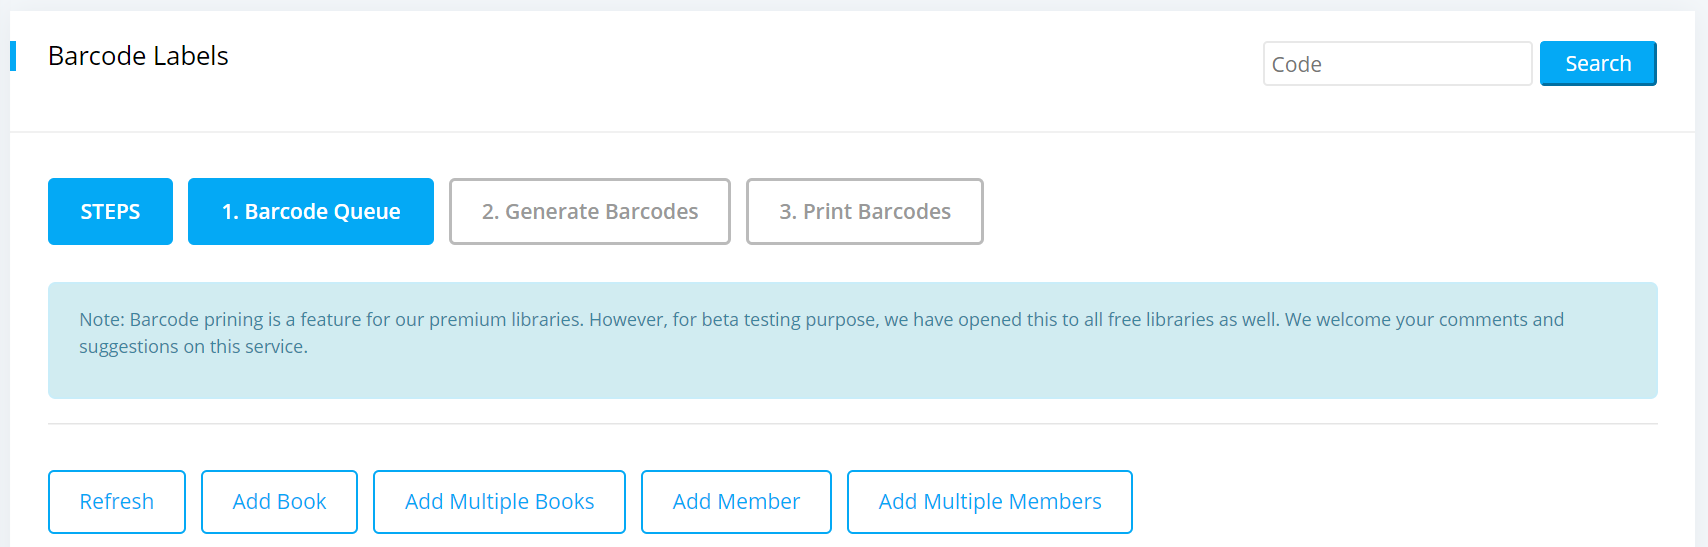
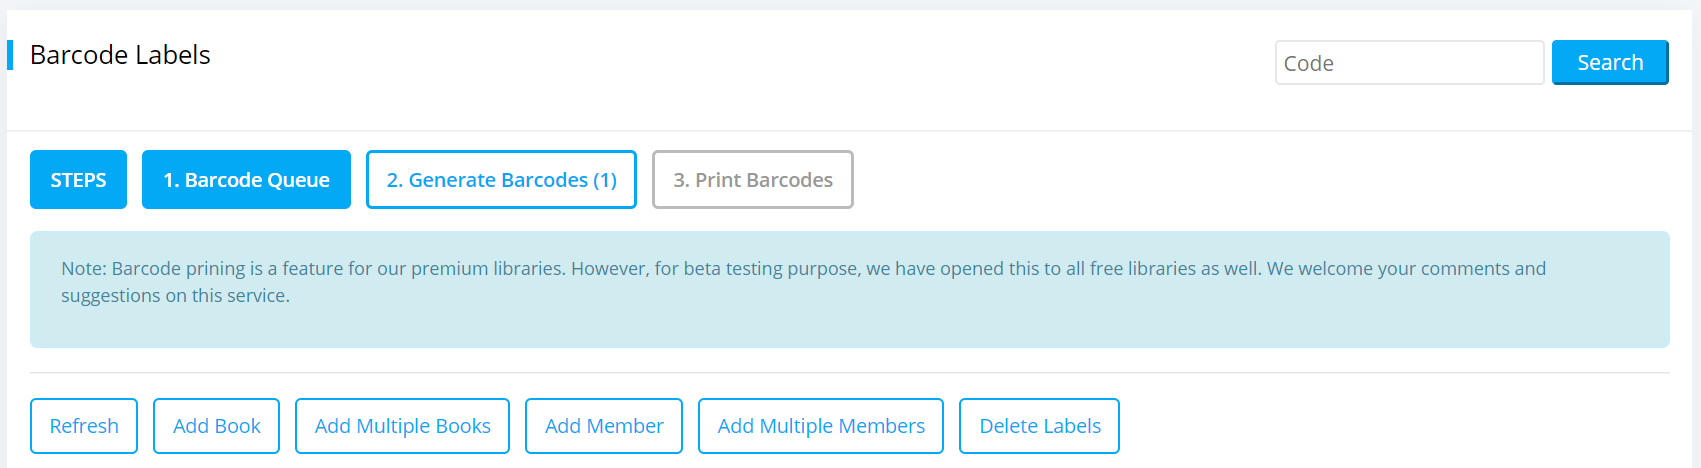
Refactor the barcode labels page

diff --git a/docs/barcode-labels.md b/docs/barcode-labels.md
@@ -102,6 +102,29 @@ To Generate Barcodes, please follow the below steps:
      ![Barcode Labels print queue](img/barcode-labels-print-queue.png)
 
 
+## Bulk Delete Barcodes
+
+If you want to delete the queued or generated barcodes all together then you can use our **Delete Labels** option. 
+
+* To do so please go to the `Barcode Labels` section as shown below.
+
+    ![Barcode Labels barcode page](img/barcode-labels-main-page.png)
+
+* Then click on the `Delete Labels` button from the top of this section.
+
+    ![Barcode Labels delete](img/barcode-labels-delete-btn.png)
+
+* From the `Object Type` dropdown menu you can select either the member or accession number to delete your barcodes. If you select **All** then both member barcodes and item barcodes will be deleted.
+    
+    ![Barcode Labels object type](img/barcode-labels-delete-by-object-type.png)
+
+* Then from the `Label Type` dropdown menu you can select either you want to delete the queued barcodes or the generated barcodes.
+
+    ![Barcode Labels label type](img/barcode-labels-delete-by-label-type.png)
+
+* After selecting the object type and label type please click on the Delete button and barcodes will be deleted.
+
+
 ## Print Barcodes
 
 Print Barcodes is the section where you need to print out all the barcodes which you have been generated so far to complete the process. 
@@ -145,17 +168,17 @@ To do so, please follow the below steps:
 
      ![Barcode Labels page settings margins](img/barcode-labels-page-settings-margins.png)
 
-* In this page you can apply margins per your choice.
+* In this page you can apply margins per your need.
 * If you click on the `Label` tab then it will be appeared like below.
 
      ![Barcode Labels page settings label](img/barcode-labels-page-settings-label.png)
 
-* In this page you can apply label per your choice.
+* In this page you can change the font size of your barcodes. Also you can change the width, height, font and padding of the barcodes per your need.
 * If you click on the `Lines` tab then it will be appeared like below.
 
      ![Barcode Labels page settings lines](img/barcode-labels-page-settings-lines.png)
 
-* In this page you can apply lines per your need.
+* In this page you can apply the font size and text limit of the lines per your need.
 * When you are done, click on `Apply` button to see your changes in the print layout page.
 
 ## Complete Printing and Start New Queue
